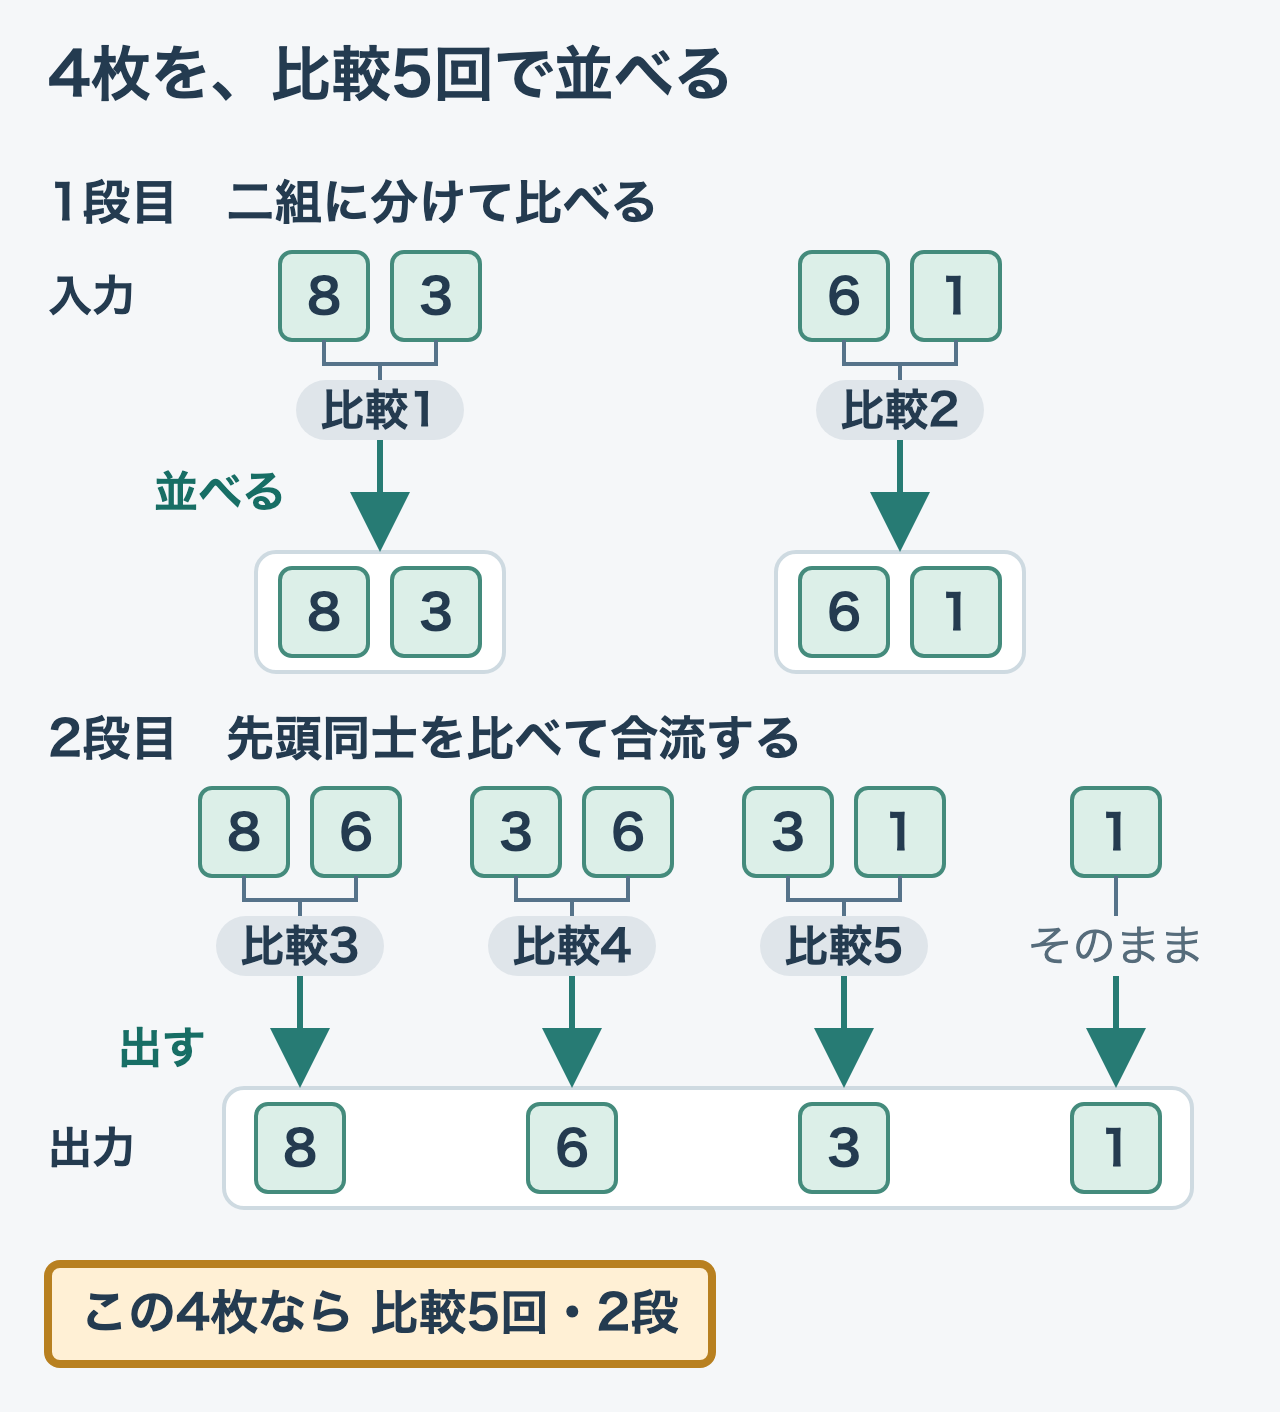
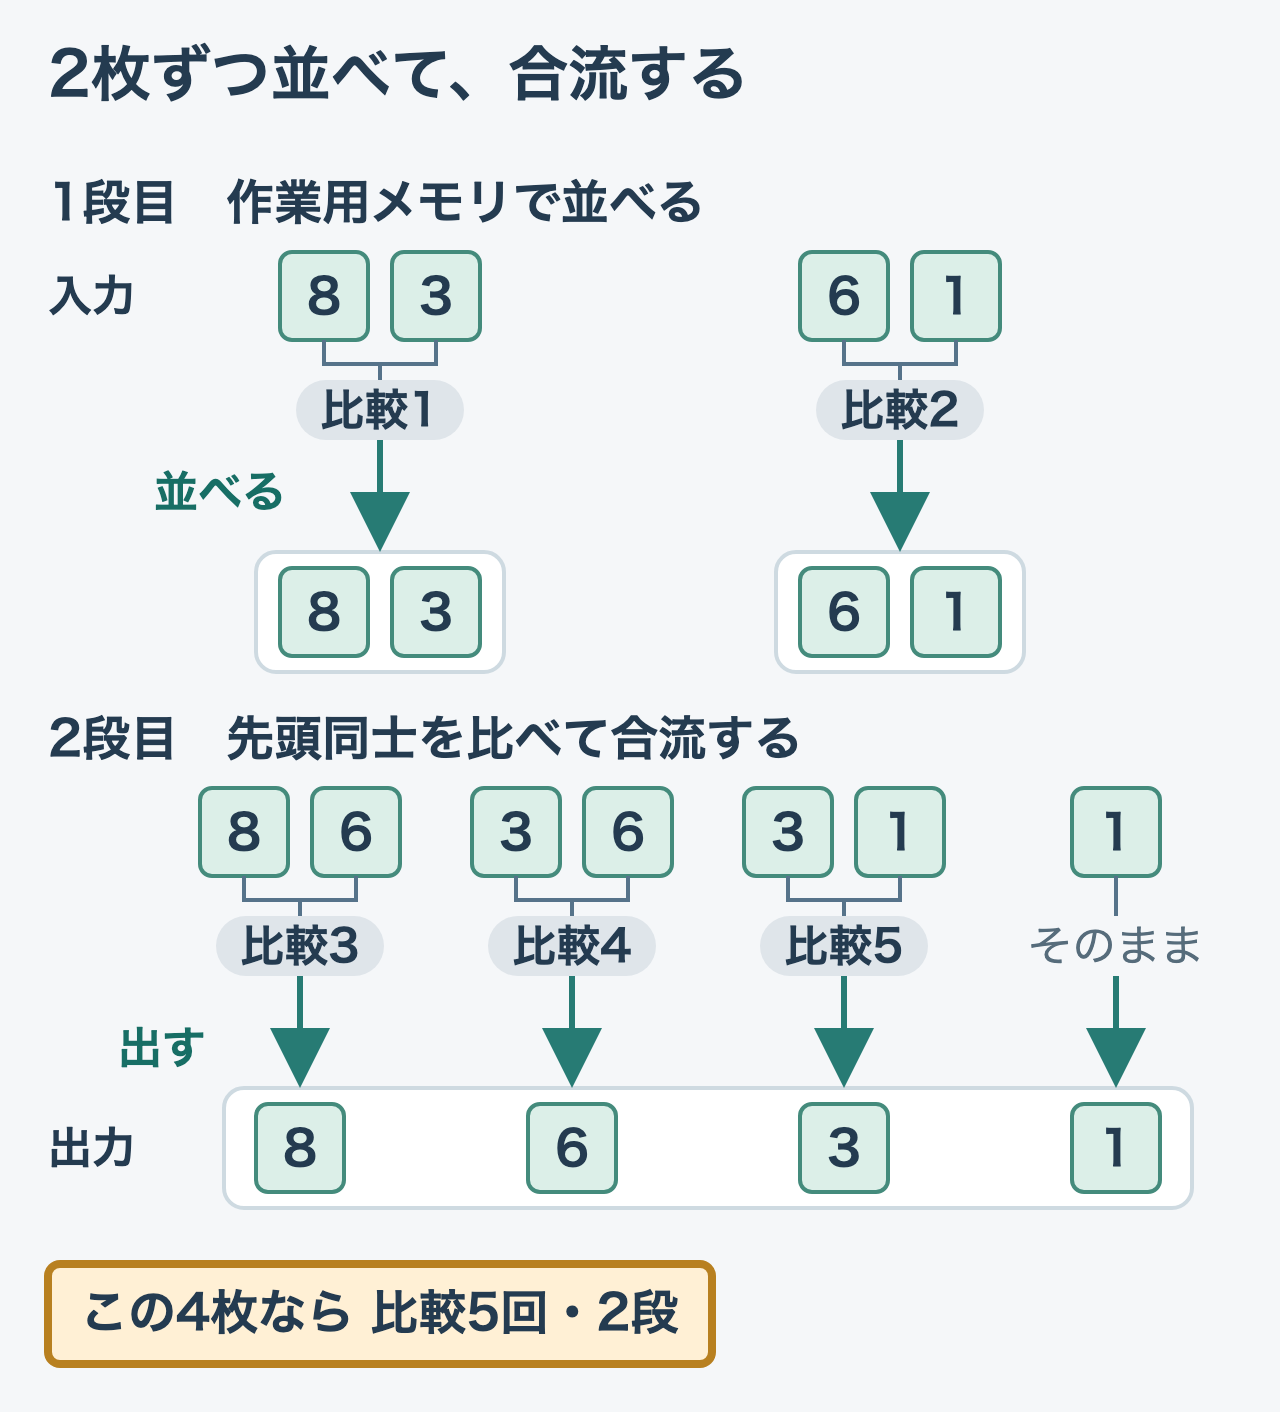
docs(query-journey): 第7章にクイックソートの図を足し、作業領域と合流の図を本文の例にそろえる
- 新しい図 07-quicksort-cards を、小さな例の段落の直後に置いた。本文と同じ
  8・3・6・1 で、①基準の6を選ぶ、②6と比べて「8」「6」「3と1」に分ける、
  ③「3と1」を3で分けて 8・6・3・1 になる、の3コマ。比べた回数は
  07-merge-cards と同じ「比較1〜4」の札で示した。基準の選び方の比較は本文で
  数えていないので、①には札を付けていない。キャプションで、考え方を見るための
  4枚の例であり、PostgreSQL は6件以下なら隣どうしを比べて並べることを断った。
- 07-merge-cards の見出しを「2枚ずつ並べて、合流する」に、1段目の札を
  「作業用メモリで並べる」に変えた。本文は1段目を作業用メモリ（机）で並べる段、
  2段目を合流の段として読ませているため。
- 04-memory-regions の途中の値を 8・3・5 から、後のカードの例と同じ
  8・3・6・1 にした（数える処理は本4まで）。本文の「8、3、5」も直した。
- catalog.json と画像の README の並びを本文の順（外部ソートの図の後に
  07-merge-cards）にそろえた。

Changed region(s): [[0.125, 0.0312, 0.5938, 0.0935], [0.1562, 0.1246, 0.5625, 0.1558], [0.0312, 0.0312, 0.0938, 0.0935]]

diff --git a/books/postgresql-query-journey/07-sort.md b/books/postgresql-query-journey/07-sort.md
@@ -21,7 +21,7 @@ title: "第7章：50万件のSortは、work_memに収まるのか"
 ![接続Aは数える処理と並べ替えの作業領域を二つ、接続Bは並べ替えの一つを持ち、下の共有バッファのページP0〜P3は両方の接続が使う](/images/postgresql-query-journey/04-memory-regions.png)
 *接続Aには破線の枠が二つあります。作業領域は処理ごとに用意され、共有バッファだけを両方の接続で使います（説明するための図）。*
 
-図の上側の「8、3、5」は、接続Aと接続Bがそれぞれ並べ替えている途中の値です。並べ替えは**ソート**とも呼びます。図では同じ数字にしていますが、それぞれが別々に持っている値です。接続Aの途中の値を接続Bが使うことはないので、作業領域は接続ごとに別々です。一つの接続の中でも、並べ替えなどの処理ごとに用意されます。
+図の上側の「8、3、6、1」は、接続Aと接続Bがそれぞれ並べ替えている途中の値です。並べ替えは**ソート**とも呼びます。図では同じ数字にしていますが、それぞれが別々に持っている値です。接続Aの途中の値を接続Bが使うことはないので、作業領域は接続ごとに別々です。一つの接続の中でも、並べ替えなどの処理ごとに用意されます。
 
 一方、下側の共有バッファにあるページP0〜P3は、どちらの接続からも使えます。第5章の検索が2回目から`hit`になったのは、この下側の領域にページが残っていたからです。
 
@@ -104,6 +104,11 @@ ORDER BY finished_at DESC, book_id ASC;
 一つの方法は、基準にするカードを1枚選び、ほかのカードをそれより大きいか小さいかで分けることです。ここでは、先頭の8、真ん中の6、末尾の1のうち、真ん中の大きさの6を基準にします。8、3、1を6と1回ずつ比べると、大きい側は8、小さい側は3と1です。これで「8」「6」「3と1」の順に三つのグループが並びます。
 
 8は1枚なので、もう動かしません。「3と1」のグループでは、3を基準にして1と比べ、1を小さい側へ置きます。すべてのグループが1枚になったところで左から読むと、8、6、3、1です。
+
+図で、①〜③の手順と、それぞれで比べた回数を追ってください。
+
+![8・3・6・1から基準の6を選び、6と3回比べて「8」「6」「3と1」に分け、「3と1」を3で分けると8・6・3・1に並ぶ](/images/postgresql-query-journey/07-quicksort-cards.png)
+*比較の札で、②では基準の6と3回、③では3と1回比べたことを見てください（考え方を見るための4枚の例。PostgreSQLは6件以下の並びなら、隣どうしを比べて並べます）。*
 
 最後に、分けたグループ同士を合わせ直す手間はありません。分けた時点で、大きい側のどのカードも基準より大きく、小さい側のどのカードも基準より小さいからです。グループの中だけを並べれば、グループ同士の順序はもう決まっています。このように、基準で分けることを繰り返して並べる方法を**クイックソート**と呼びます。
 
